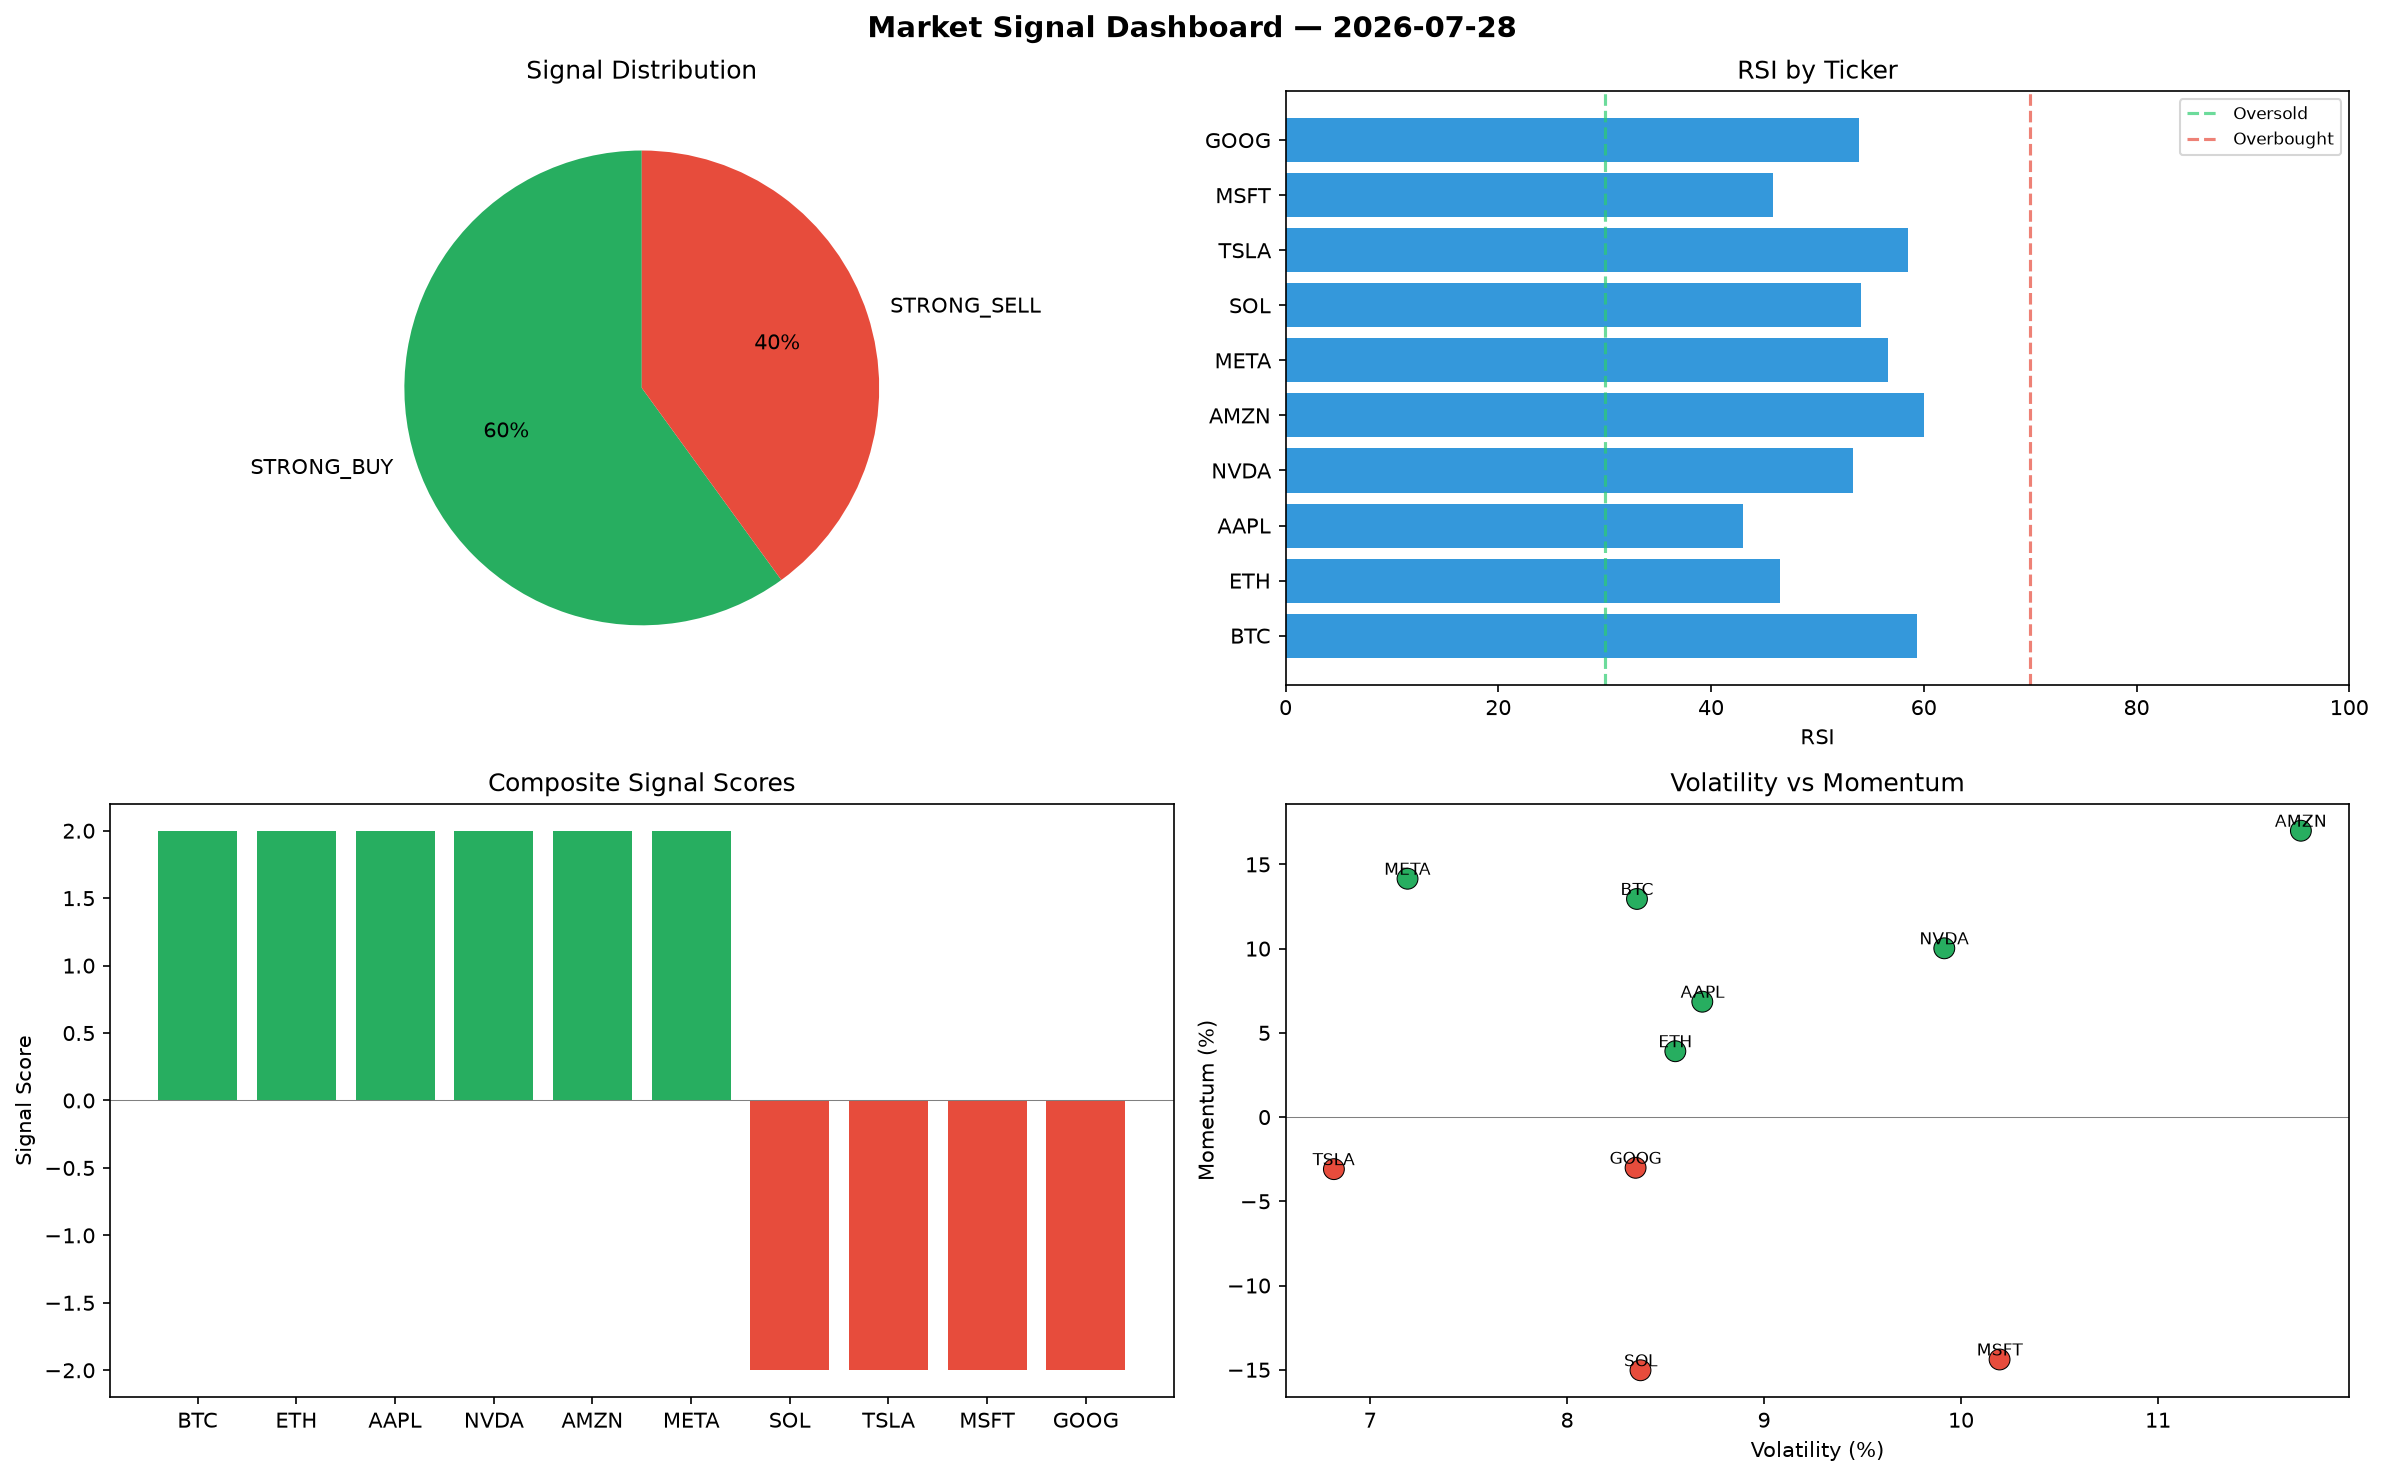
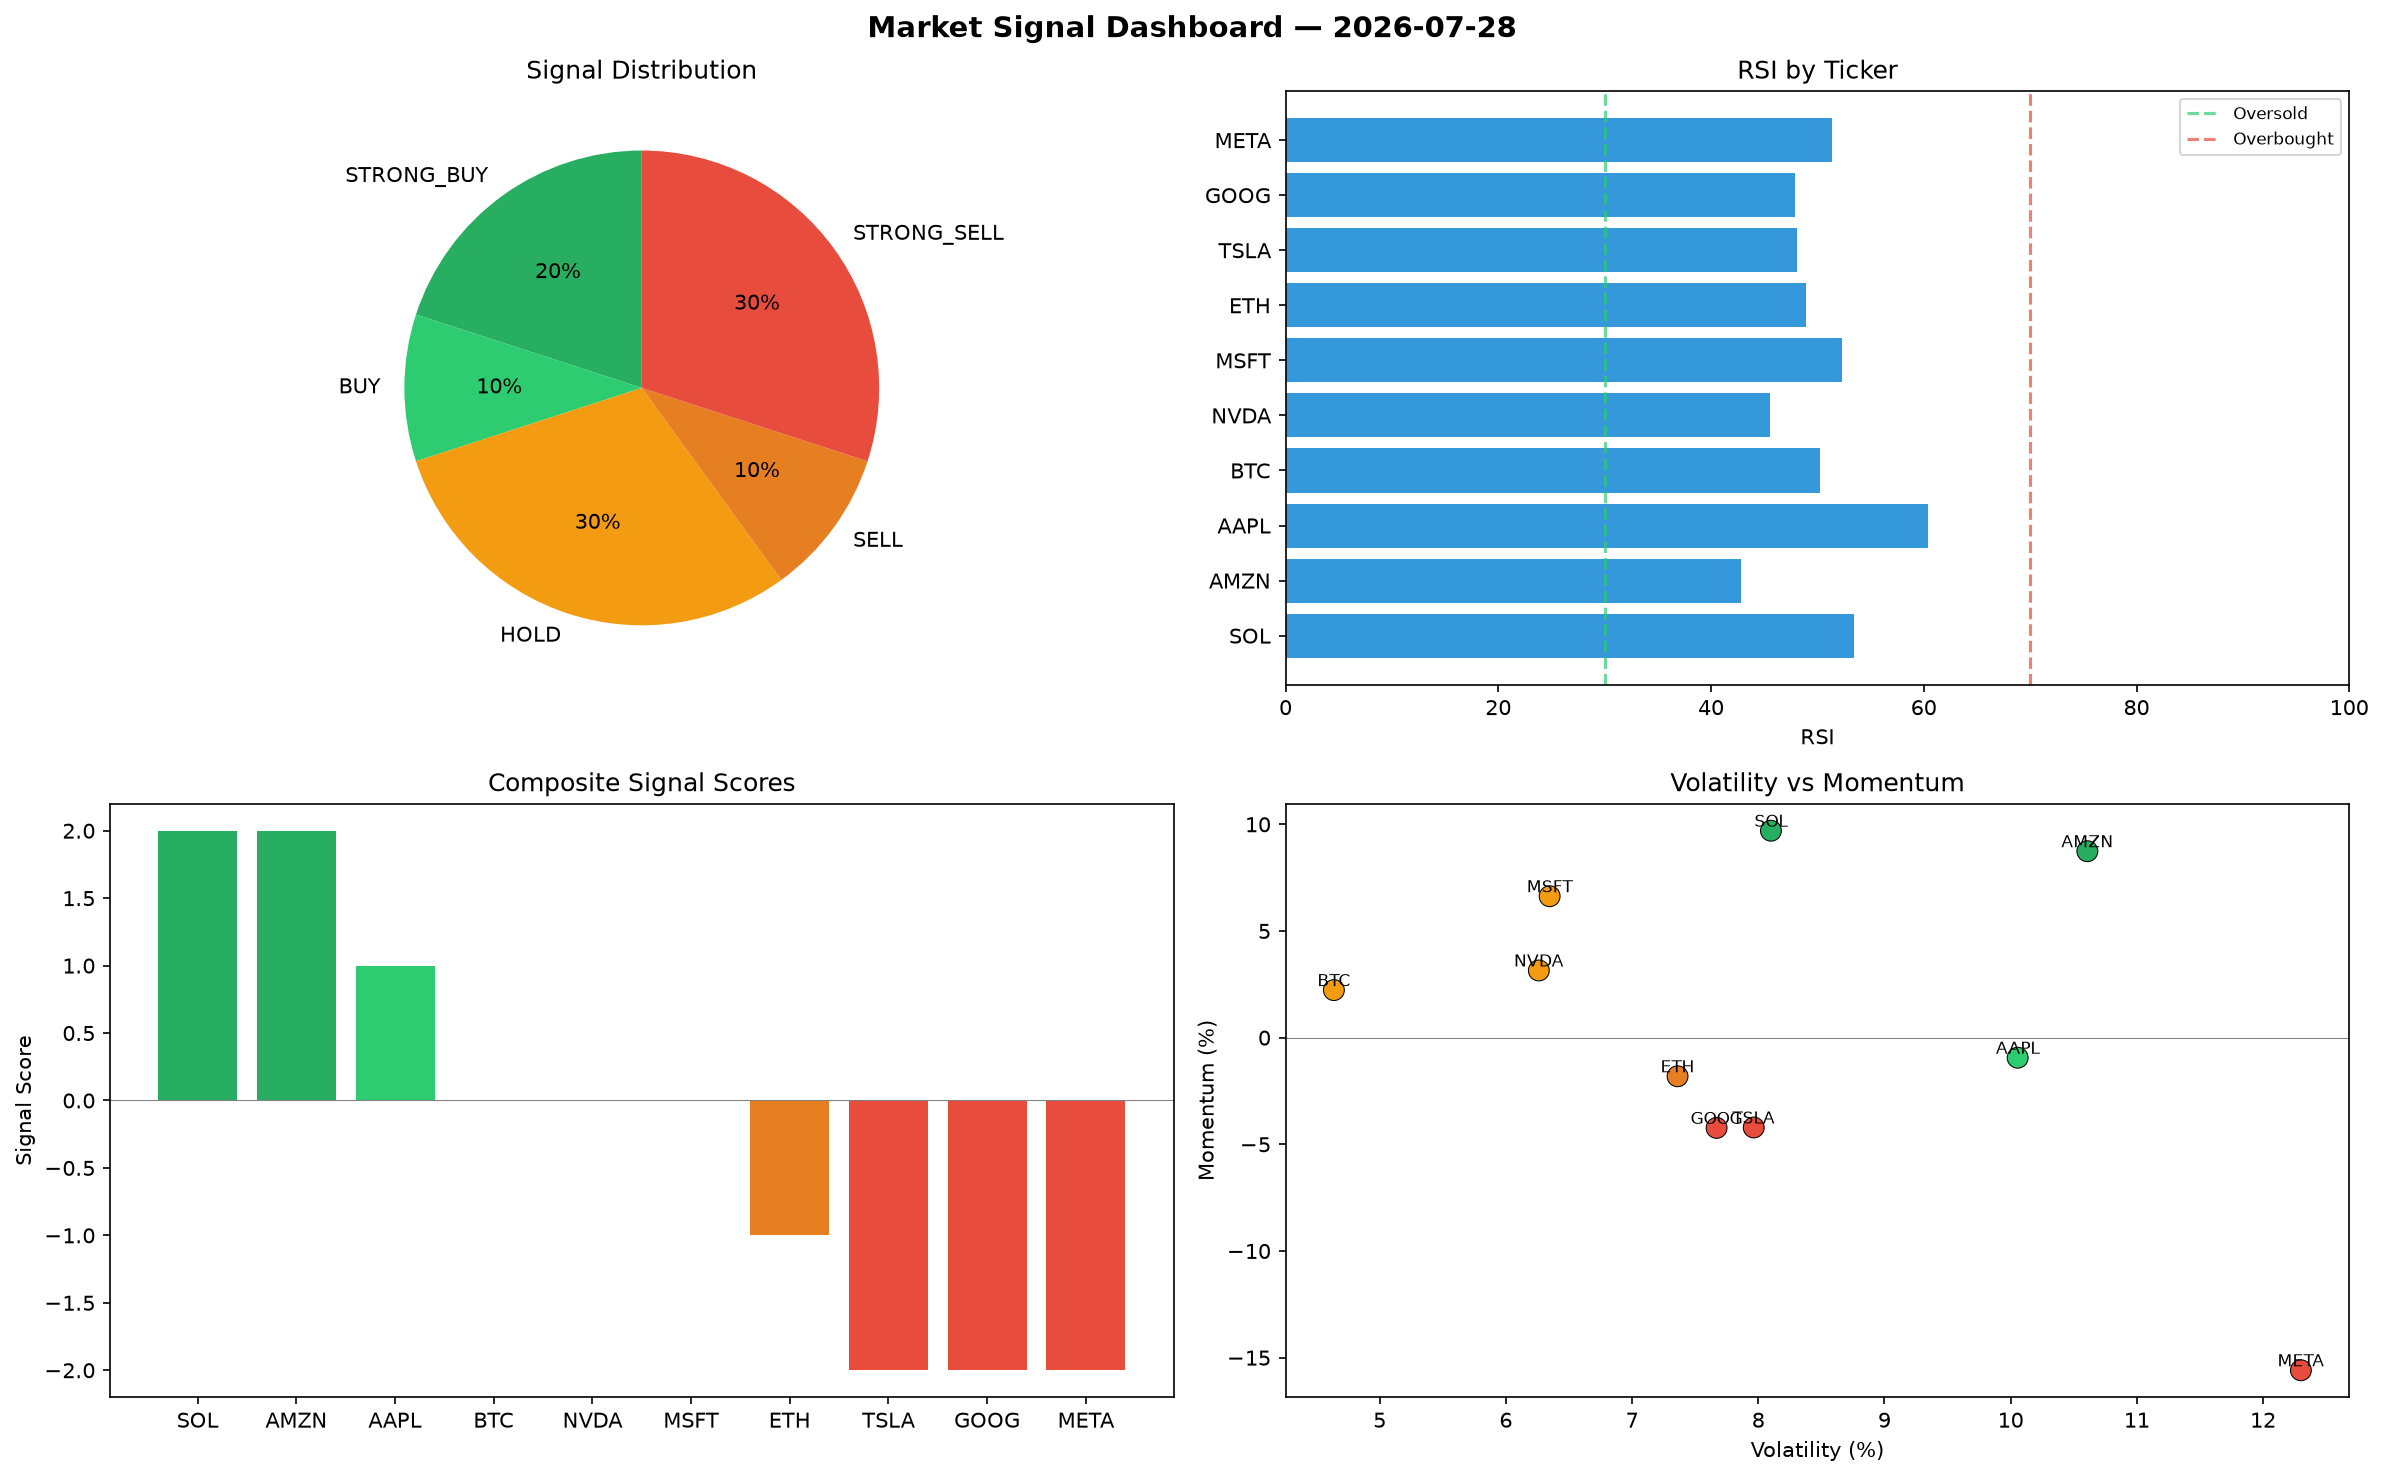
automated-bots: market signals 2026-07-28T16:18

diff --git a/logs/2026-07-28.md b/logs/2026-07-28.md
@@ -1,6 +1,6 @@
 # Market Signal Report — 2026-07-28
 
-**Run ID:** `00ea129e54` | **Buy:** 6 | **Sell:** 4 | **Hold:** 0
+**Run ID:** `0cf1d84da7` | **Buy:** 3 | **Sell:** 4 | **Hold:** 3
 
 ![Dashboard](2026-07-28_dashboard.png)
 
@@ -8,28 +8,28 @@
 
 | Ticker | Price | Signal | Score | RSI | Momentum | Confidence |
 |--------|-------|--------|-------|-----|----------|------------|
-| BTC | $1176.66 | **STRONG_BUY** | 2 | 59.38 | 0.1295 | 0.5 |
-| ETH | $4610.83 | **STRONG_BUY** | 2 | 46.5 | 0.0391 | 0.5 |
-| AAPL | $4449.84 | **STRONG_BUY** | 2 | 43.0 | 0.0685 | 0.5 |
-| NVDA | $2984.25 | **STRONG_BUY** | 2 | 53.38 | 0.1002 | 0.5 |
-| AMZN | $583.34 | **STRONG_BUY** | 2 | 59.98 | 0.17 | 0.5 |
-| META | $2564.81 | **STRONG_BUY** | 2 | 56.6 | 0.1415 | 0.5 |
-| SOL | $879.5 | **STRONG_SELL** | -2 | 54.1 | -0.1503 | 0.5 |
-| TSLA | $1028.26 | **STRONG_SELL** | -2 | 58.55 | -0.0309 | 0.5 |
-| MSFT | $1724.89 | **STRONG_SELL** | -2 | 45.78 | -0.1439 | 0.5 |
-| GOOG | $2699.64 | **STRONG_SELL** | -2 | 53.93 | -0.0301 | 0.5 |
+| SOL | $2097.41 | **STRONG_BUY** | 2 | 53.47 | 0.097 | 0.5 |
+| AMZN | $4301.21 | **STRONG_BUY** | 2 | 42.81 | 0.0874 | 0.5 |
+| AAPL | $1404.75 | **BUY** | 1 | 60.39 | -0.0094 | 0.25 |
+| BTC | $929.26 | **HOLD** | 0 | 50.22 | 0.0223 | 0.0 |
+| NVDA | $4693.71 | **HOLD** | 0 | 45.58 | 0.0315 | 0.0 |
+| MSFT | $4513.37 | **HOLD** | 0 | 52.31 | 0.0663 | 0.0 |
+| ETH | $1496.26 | **SELL** | -1 | 48.96 | -0.0181 | 0.25 |
+| TSLA | $1674.31 | **STRONG_SELL** | -2 | 48.06 | -0.0421 | 0.5 |
+| GOOG | $1023.6 | **STRONG_SELL** | -2 | 47.89 | -0.0423 | 0.5 |
+| META | $3611.89 | **STRONG_SELL** | -2 | 51.33 | -0.1559 | 0.5 |
 
 ## Delta vs Yesterday
 
 | Ticker | Today | Yesterday | Price Change | Signal Changed |
 |--------|-------|-----------|-------------|----------------|
-| BTC | STRONG_BUY | SELL | 📉 -58.73% | ⚠ YES |
-| ETH | STRONG_BUY | STRONG_SELL | 📈 33.88% | ⚠ YES |
-| AAPL | STRONG_BUY | SELL | 📈 121.92% | ⚠ YES |
-| NVDA | STRONG_BUY | SELL | 📈 118.66% | ⚠ YES |
-| AMZN | STRONG_BUY | HOLD | 📉 -61.9% | ⚠ YES |
-| META | STRONG_BUY | HOLD | 📉 -16.59% | ⚠ YES |
-| SOL | STRONG_SELL | HOLD | 📈 72.4% | ⚠ YES |
-| TSLA | STRONG_SELL | STRONG_BUY | 📉 -67.84% | ⚠ YES |
-| MSFT | STRONG_SELL | STRONG_BUY | 📈 824.87% | ⚠ YES |
-| GOOG | STRONG_SELL | STRONG_BUY | 📈 938.88% | ⚠ YES |
+| SOL | STRONG_BUY | HOLD | 📈 311.14% | ⚠ YES |
+| AMZN | STRONG_BUY | HOLD | 📈 180.9% | ⚠ YES |
+| AAPL | BUY | SELL | 📉 -29.94% | ⚠ YES |
+| BTC | HOLD | SELL | 📉 -67.41% | ⚠ YES |
+| NVDA | HOLD | SELL | 📈 243.92% | ⚠ YES |
+| MSFT | HOLD | STRONG_BUY | 📈 2320.04% | ⚠ YES |
+| ETH | SELL | STRONG_SELL | 📉 -56.56% | ⚠ YES |
+| TSLA | STRONG_SELL | STRONG_BUY | 📉 -47.64% | ⚠ YES |
+| GOOG | STRONG_SELL | STRONG_BUY | 📈 293.9% | ⚠ YES |
+| META | STRONG_SELL | HOLD | 📈 17.46% | ⚠ YES |
